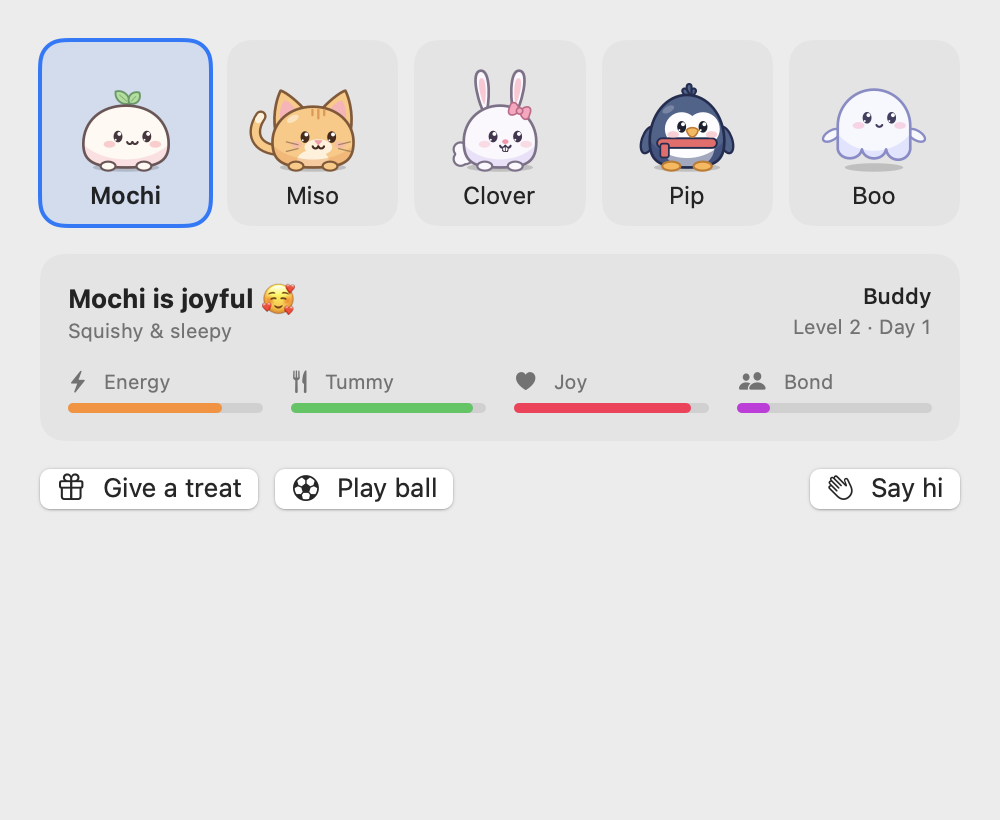
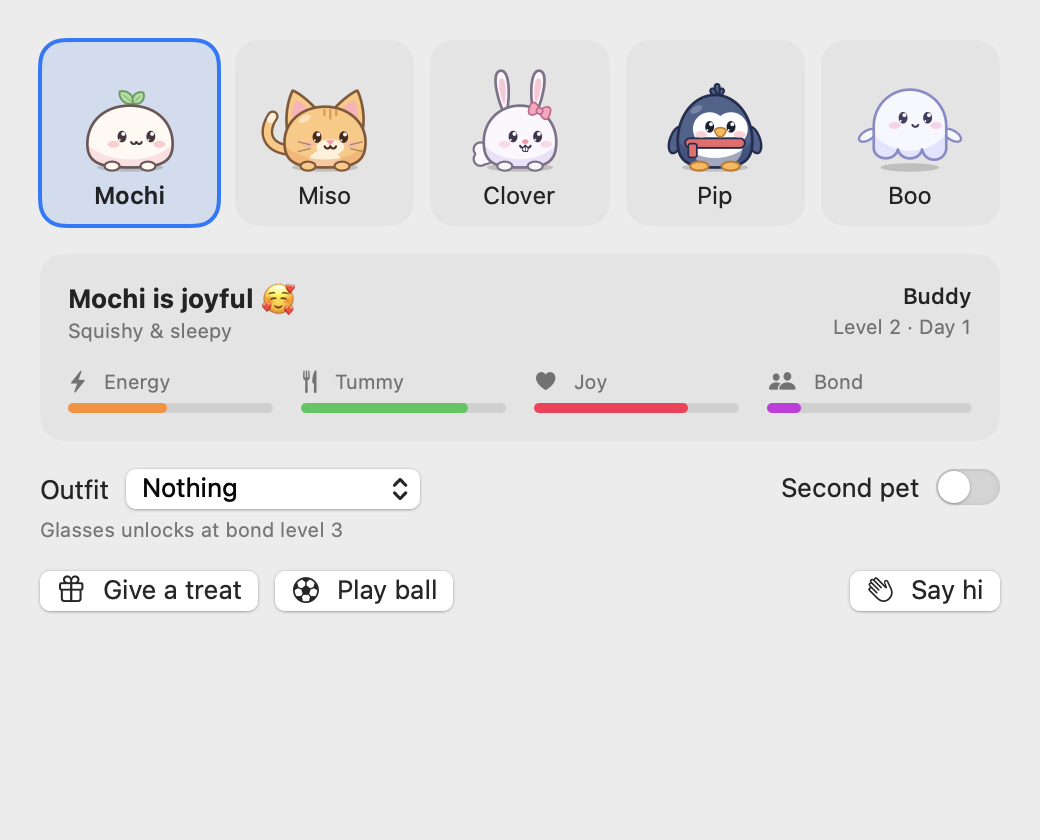
feat: release version 0.5.0 with new pets, reminders, outfits, and daily check-ins

diff --git a/README.md b/README.md
@@ -38,6 +38,17 @@ Switch pets any time from the Pet tab in settings:
 - **Memory**: it remembers all of this between launches, rests while the app is closed, and misses you when you've been gone
 - See how it's doing at the top of the menu and in the settings panel
 
+**Plays with you (and with a friend)**
+- **Throw and bounce**: let go of the pet mid-swing and it flies, tumbles, bounces off the screen edges and lands dizzy
+- **Second pet**: turn on a companion in settings and the two run over to greet each other
+- **Hide and peek**: it sneaks to a screen edge, ducks behind it and pops out when your cursor comes looking
+- **Outfits**: a flower, glasses, a party hat, a crown and a halo unlock as your bond levels up
+
+**Looks after you**
+- **Gentle reminders**: water, posture and eye-rest nudges at intervals you choose, plus a stretch after 50 minutes of work. They count time you are actually at your Mac and wait for calls and focus sessions to end
+- **Daily check-in**: a Today tab with your day in numbers (time at the Mac, typing, focus sessions, breaks), and a recap at 6 pm and the next morning
+- **Calendar alerts** (optional): a heads-up five minutes before an event and as it starts. This is the only feature that asks for a permission
+
 **Moves around your whole screen**
 - Walks the Dock, **climbs the left and right edges**, crawls along the top, and comes back down
 - Sometimes decides on its own to head for an edge and climb; its grip is strong, but after a long time hanging around it may slip and fall
@@ -52,7 +63,8 @@ Switch pets any time from the Pet tab in settings:
 - **Anything else making sound** (browsers, etc.): bobs along and sometimes dances
 - **Typing**: bops along with every key you press and cheers when you're on a roll or typing fast. It only reads the system's running count of key presses, never which keys
 - Falls asleep when you step away, and welcomes you back when you return
-- Reminds you to stretch after about 50 minutes of work, comments on low battery, plugging in and mealtimes
+- **Busy Mac**: sweats when the processor is flat out or the Mac runs hot, and shivers when the battery is nearly empty
+- Comments on low battery, plugging in and mealtimes
 
 **Interacts with you**
 - Eyes follow your cursor; it sometimes chases it and looks at you when you are near
@@ -68,7 +80,9 @@ Switch pets any time from the Pet tab in settings:
 - **Launch at login** (when run from the built `Mochi.app`)
 - **Three sizes**: Small, Medium (default) and Large
 
-Lightweight: native Swift and AppKit, no dependencies, no Dock icon.
+Lightweight: native Swift and AppKit, no dependencies, no Dock icon. Easy on the battery too: nothing runs
+while the Mac sleeps, the display is off or the screen is locked, and the pet animates more slowly when it
+is napping or just standing around.
 
 ## Requirements
 
@@ -100,7 +114,7 @@ The build is ad-hoc signed, so on first launch macOS may ask you to right-click 
 | Click the pet | Pets it (hearts and a happy hop) |
 | Drag and drop | Pick it up; let go near an edge to make it cling |
 | Right-click the pet or click the menu bar icon | A status card, then Give a Treat, Play Ball, Interact (say hi, pet, come here, trick, sleep), Focus Session, Bring Back, Settings, Quit |
-| Settings | **Pet**: choose a pet and see how it's doing. **Behavior**: what it's allowed to do and react to. **General**: size, speech bubbles, launch at login |
+| Settings | **Pet**: choose a pet and see how it's doing. **Behavior**: what it's allowed to do and react to. **Reminders**: nudges, calendar alerts, daily check-in. **Today**: your day in numbers. **General**: size, speech bubbles, launch at login |
 | `⌘ ,` / `⌘ B` (menu open) | Open settings / bring the pet back |
 
 ## How it works
@@ -118,13 +132,16 @@ Sources/Mochi
 ├── PetController.swift    window, 30fps loop, surfaces, physics, reactions
 ├── Brain.swift            PetAction, Brain protocol, MindBrain (swap in AI here)
 ├── Mind.swift             the pet's needs, bond and memory (saved between launches)
+├── Outfit.swift           things to wear and the bond level that unlocks each
+├── DayStats.swift         today's and yesterday's numbers for the daily check-in
+├── CalendarWatcher.swift  upcoming events (only if you turn calendar alerts on)
 ├── PetView.swift          drawing for every pet and mood, mouse input
 ├── Species.swift          pet definitions (colours, speed, lines)
 ├── Dialogue.swift         everything the pet says
 ├── SpeechBubble.swift     the speech bubble window
 ├── Platform.swift         finds window tops to stand on
 ├── AudioWatcher.swift     notices which apps are playing sound (music / video / call)
-├── SystemInfo.swift       idle time, battery and the key press count
+├── SystemInfo.swift       idle time, battery, processor load and the key press count
 ├── Treat.swift            the snack and the ball you can drop for the pet
 ├── LoginItem.swift        launch at login
 ├── PetSettings.swift      saved preferences (UserDefaults)
@@ -158,7 +175,7 @@ then pass it to `PetController(brain:)`.
 
 - [ ] AI brain that chats and decides what to do
 - [ ] Real beat detection (needs audio-capture permission)
-- [ ] More pets and more tricks (hide and peek)
+- [ ] More pets and more tricks
 - [ ] Multi-monitor roaming
 
 ## Contributing

diff --git a/CHANGELOG.md b/CHANGELOG.md
@@ -1,5 +1,19 @@
 # Changelog
 
+## 0.5.0
+
+- Throw and bounce: let go of the pet mid-swing and it flies, tumbles, bounces off the screen edges and lands dizzy
+- Second pet: switch on a companion in settings; the two run over to greet each other
+- Hide and peek: the pet sneaks to a screen edge, ducks behind it and pops out when you come looking
+- Outfits: flower, glasses, party hat, crown and halo unlock as your bond levels up
+- Daily check-in: a Today tab with your day in numbers, a recap at 6 pm and the next morning, and "Daily Check-in" in the menu
+- Gentle reminders: water, posture and eye-rest nudges at intervals you choose, alongside the stretch reminder
+- Busy-Mac reactions: the pet sweats when the processor is flat out or the Mac runs hot, and shivers on a nearly empty battery
+- Calendar alerts (optional, asks for permission): a heads-up five minutes before events and as they start
+- Battery: everything stops while the Mac sleeps, the display is off or the screen is locked; a napping pet animates at 6 fps and a standing one at 15; window scans are cached and shared; settings previews stop when the window is closed
+- `swift run` and the built app now share the same saved pet (older `swift run` data is carried over)
+- Settings gained Reminders and Today tabs
+
 ## 0.4.0
 
 - Pets have a brain now: energy, tummy and joy drift over time and steer what the pet does (naps when tired, sulks and asks for a snack when hungry, comes looking for you when lonely, extra bouncy when happy)
